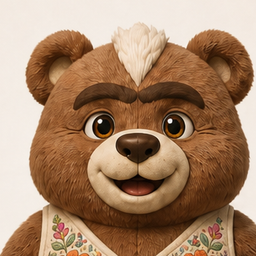
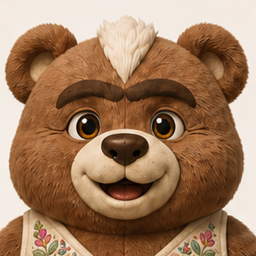
fix: center mascot face crops in circular role cards
Recenter derived panel face assets and pan via object-position so sm/md Mascot circles show the face properly. Home role cards use front-facing poses.

diff --git a/src/components/mascot/BearFace.tsx b/src/components/mascot/BearFace.tsx
@@ -114,16 +114,35 @@ function bodySheetStyle(panel: 0 | 1 | 2 | 3): CSSProperties {
   };
 }
 
-const FACE_IMG_STYLE: CSSProperties = {
-  position: "absolute",
-  inset: 0,
-  width: "100%",
-  height: "100%",
-  objectFit: "cover",
-  objectPosition: "center 20%",
-  pointerEvents: "none",
-  userSelect: "none",
+/**
+ * Face crops are square but subjects sit slightly off-center in-frame
+ * (panel 2 profile especially). Slight oversize + per-panel object-position
+ * pans the face into the circular sm/md Mascot frames.
+ */
+const FACE_OBJECT_POSITION: Record<0 | 1 | 2 | 3, string> = {
+  /** Front — subject slightly right in asset → pan right so face hits center */
+  0: "58% 30%",
+  1: "55% 28%",
+  /** Profile left-facing — keep snout/eye in frame */
+  2: "32% 30%",
+  3: "52% 30%",
 };
+
+function faceImgStyle(panel: 0 | 1 | 2 | 3): CSSProperties {
+  return {
+    position: "absolute",
+    left: "50%",
+    top: "50%",
+    width: "122%",
+    height: "122%",
+    maxWidth: "none",
+    transform: "translate(-50%, -50%)",
+    objectFit: "cover",
+    objectPosition: FACE_OBJECT_POSITION[panel],
+    pointerEvents: "none",
+    userSelect: "none",
+  };
+}
 
 /**
  * Ours canon C-v3 — crop panneau selon la pose.
@@ -171,7 +190,7 @@ export function BearFace({
         src={resolvedSrc}
         alt={decorative ? "" : CANON_BEAR_ALT}
         draggable={false}
-        style={variant === "body" ? bodySheetStyle(panel) : FACE_IMG_STYLE}
+        style={variant === "body" ? bodySheetStyle(panel) : faceImgStyle(panel)}
       />
     </span>
   );

diff --git a/src/app/page.tsx b/src/app/page.tsx
@@ -19,7 +19,7 @@ export default function HomePage() {
         <div className="flex w-full flex-col gap-4">
           <Card className="animate-fade-up flex flex-col gap-4 [animation-delay:80ms]">
             <div className="flex items-start gap-3">
-              <Mascot pose="patience" size="sm" />
+              <Mascot pose="vigilance" size="sm" />
               <div>
                 <h2 className="font-semibold">Je suis aidant</h2>
                 <p className="mt-1 text-sm text-text-muted">
